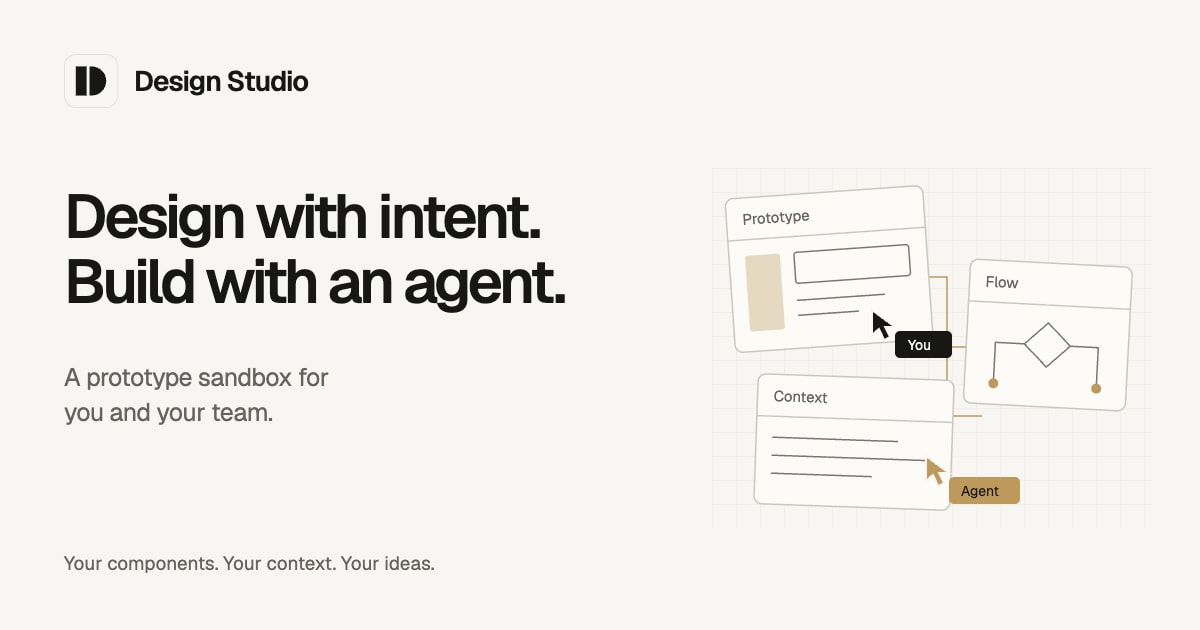
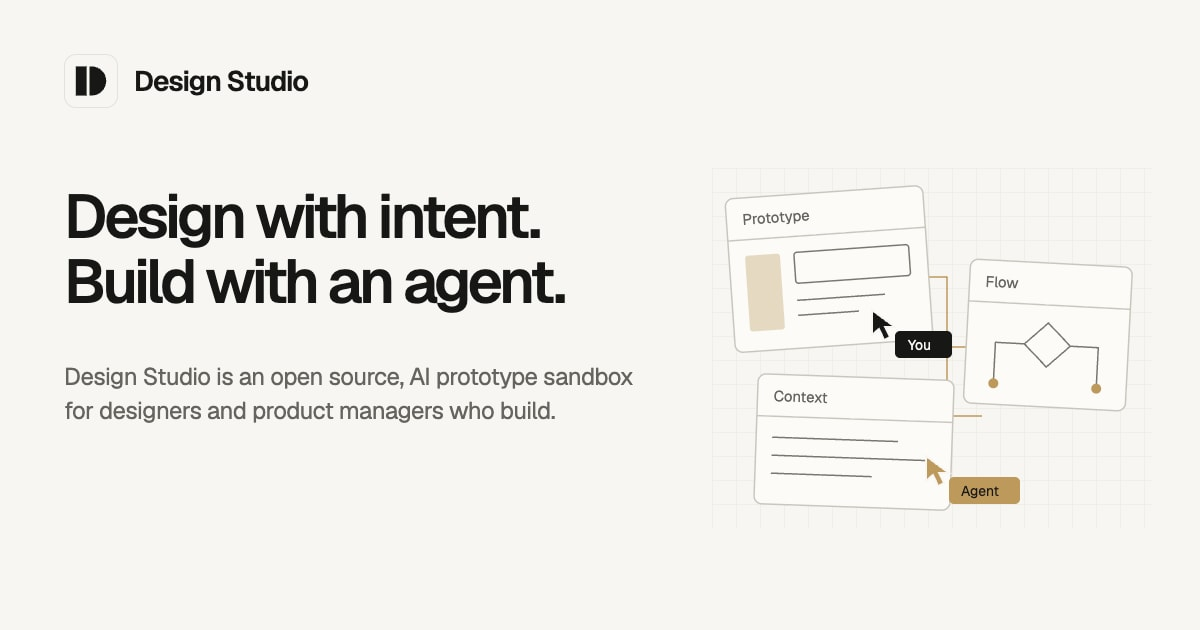
Use product subheadline in sharing assets

Changed region(s): [[0.0308, 0.573, 0.5242, 0.6937], [0.0617, 0.8746, 0.37, 0.9048]]

diff --git a/src/platform/systems/studio/assets/brand/social-card.html b/src/platform/systems/studio/assets/brand/social-card.html
@@ -11,8 +11,7 @@
     .brand img { width: 54px; height: 54px; }
     .dark-logo { display: none; }
     h1 { position: absolute; top: 185px; left: 64px; margin: 0; font-size: 61px; line-height: 1.06; font-weight: 560; letter-spacing: -3.5px; }
-    .description { position: absolute; top: 360px; left: 64px; margin: 0; font-size: 25px; line-height: 1.4; color: #65645e; letter-spacing: -.5px; }
-    .footer { position: absolute; bottom: 54px; left: 64px; font-size: 19px; color: #65645e; }
+    .description { position: absolute; top: 360px; left: 64px; width: 600px; margin: 0; font-size: 24px; line-height: 1.4; color: #65645e; letter-spacing: -.5px; }
     .scene { position: absolute; top: 168px; right: 48px; width: 440px; height: 360px; }
     .grid { stroke: #e7e5de; stroke-width: 1; }
     .card { fill: #fcfbf8; stroke: #c9c6bd; stroke-width: 1.5; }
@@ -24,7 +23,7 @@
     @media (prefers-color-scheme: dark) {
       body { background: #171715; color: #f7f6f2; }
       .light-logo { display: none; } .dark-logo { display: block; }
-      .description, .footer { color: #aaa89e; }
+      .description { color: #aaa89e; }
       .grid { stroke: #282823; } .card { fill: #22221e; stroke: #54534b; }
       .line { stroke: #54534b; } .ink { stroke: #aaa89e; } .label { fill: #aaa89e; }
     }
@@ -33,8 +32,7 @@
 <body>
   <div class="brand"><img class="light-logo" src="../../../../../../public/brand/design-studio-light.svg" alt=""><img class="dark-logo" src="../../../../../../public/brand/design-studio-dark.svg" alt="">Design Studio</div>
   <h1>Design with intent.<br>Build with an agent.</h1>
-  <p class="description">A prototype sandbox for<br>you and your team.</p>
-  <div class="footer">Your components. Your context. Your ideas.</div>
+  <p class="description">Design Studio is an open source, AI prototype sandbox for designers and product managers who build.</p>
   <svg class="scene" viewBox="0 0 440 360" aria-label="Connected prototype, context, and flow cards">
     <defs><pattern id="grid" width="24" height="24" patternUnits="userSpaceOnUse"><path class="grid" d="M24 0H0V24" fill="none"/></pattern></defs>
     <rect width="440" height="360" fill="url(#grid)"/>

diff --git a/src/index.html b/src/index.html
@@ -4,7 +4,7 @@
     <meta charset="UTF-8" />
     <meta name="viewport" content="width=device-width, initial-scale=1.0" />
     <title>Design Studio</title>
-    <meta name="description" content="A prototype sandbox for you and your team. Design with intent. Build with an agent." />
+    <meta name="description" content="Design Studio is an open source, AI prototype sandbox for designers and product managers who build." />
     <link rel="icon" type="image/x-icon" sizes="16x16 32x32 48x48" href="/favicon.ico" />
     <link rel="icon" type="image/svg+xml" href="/favicon.svg" />
     <link rel="apple-touch-icon" sizes="180x180" href="/apple-touch-icon.png" />

diff --git a/src/platform/node/build/vite-social-metadata-plugin.js b/src/platform/node/build/vite-social-metadata-plugin.js
@@ -11,7 +11,7 @@ export default function socialMetadata({ publicUrl = process.env.STUDIO_PUBLIC_U
     image = new URL('images/design-studio-social.png', url).href;
   }
   const title = 'Design Studio — Design with intent. Build with an agent.';
-  const description = 'A prototype sandbox for you and your team. Your components. Your context. Your ideas.';
+  const description = 'Design Studio is an open source, AI prototype sandbox for designers and product managers who build.';
   const alt = 'Design Studio. Design with intent. Build with an agent. Connected prototype, context, and flow cards.';
   return {
     name: 'studio-social-metadata',
